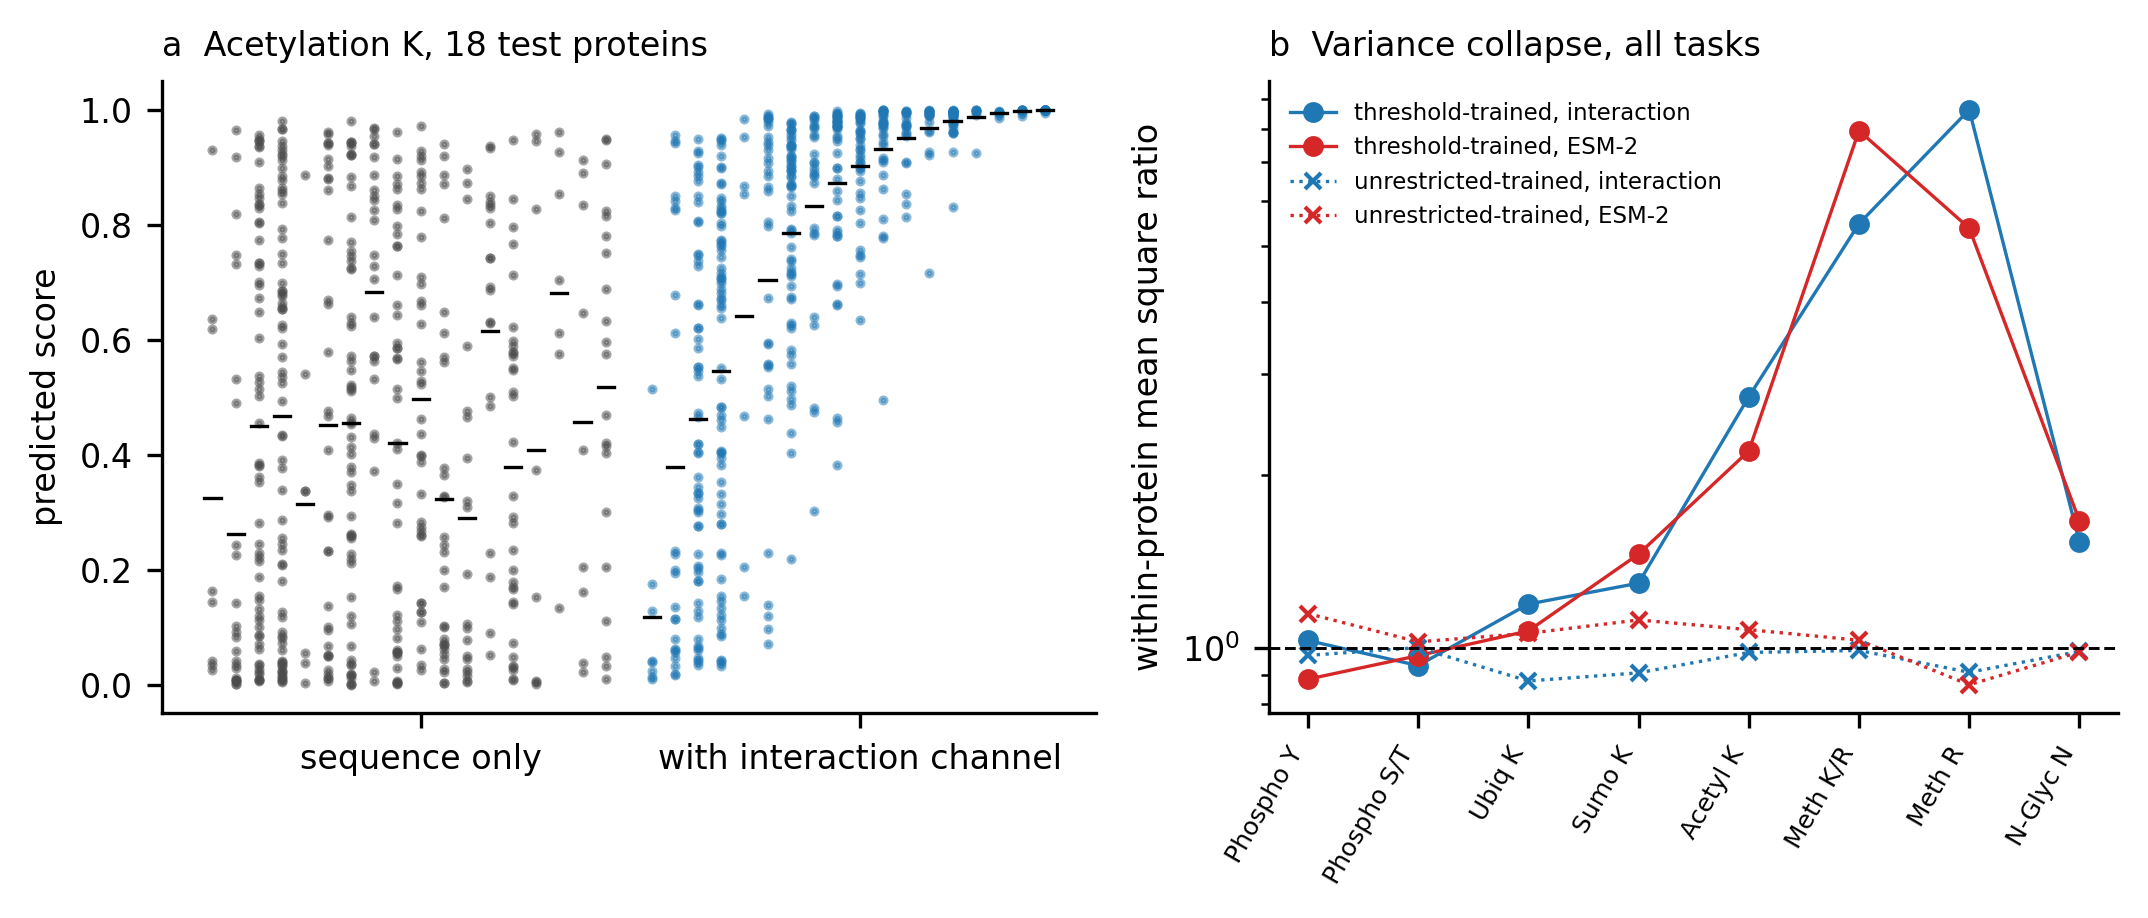
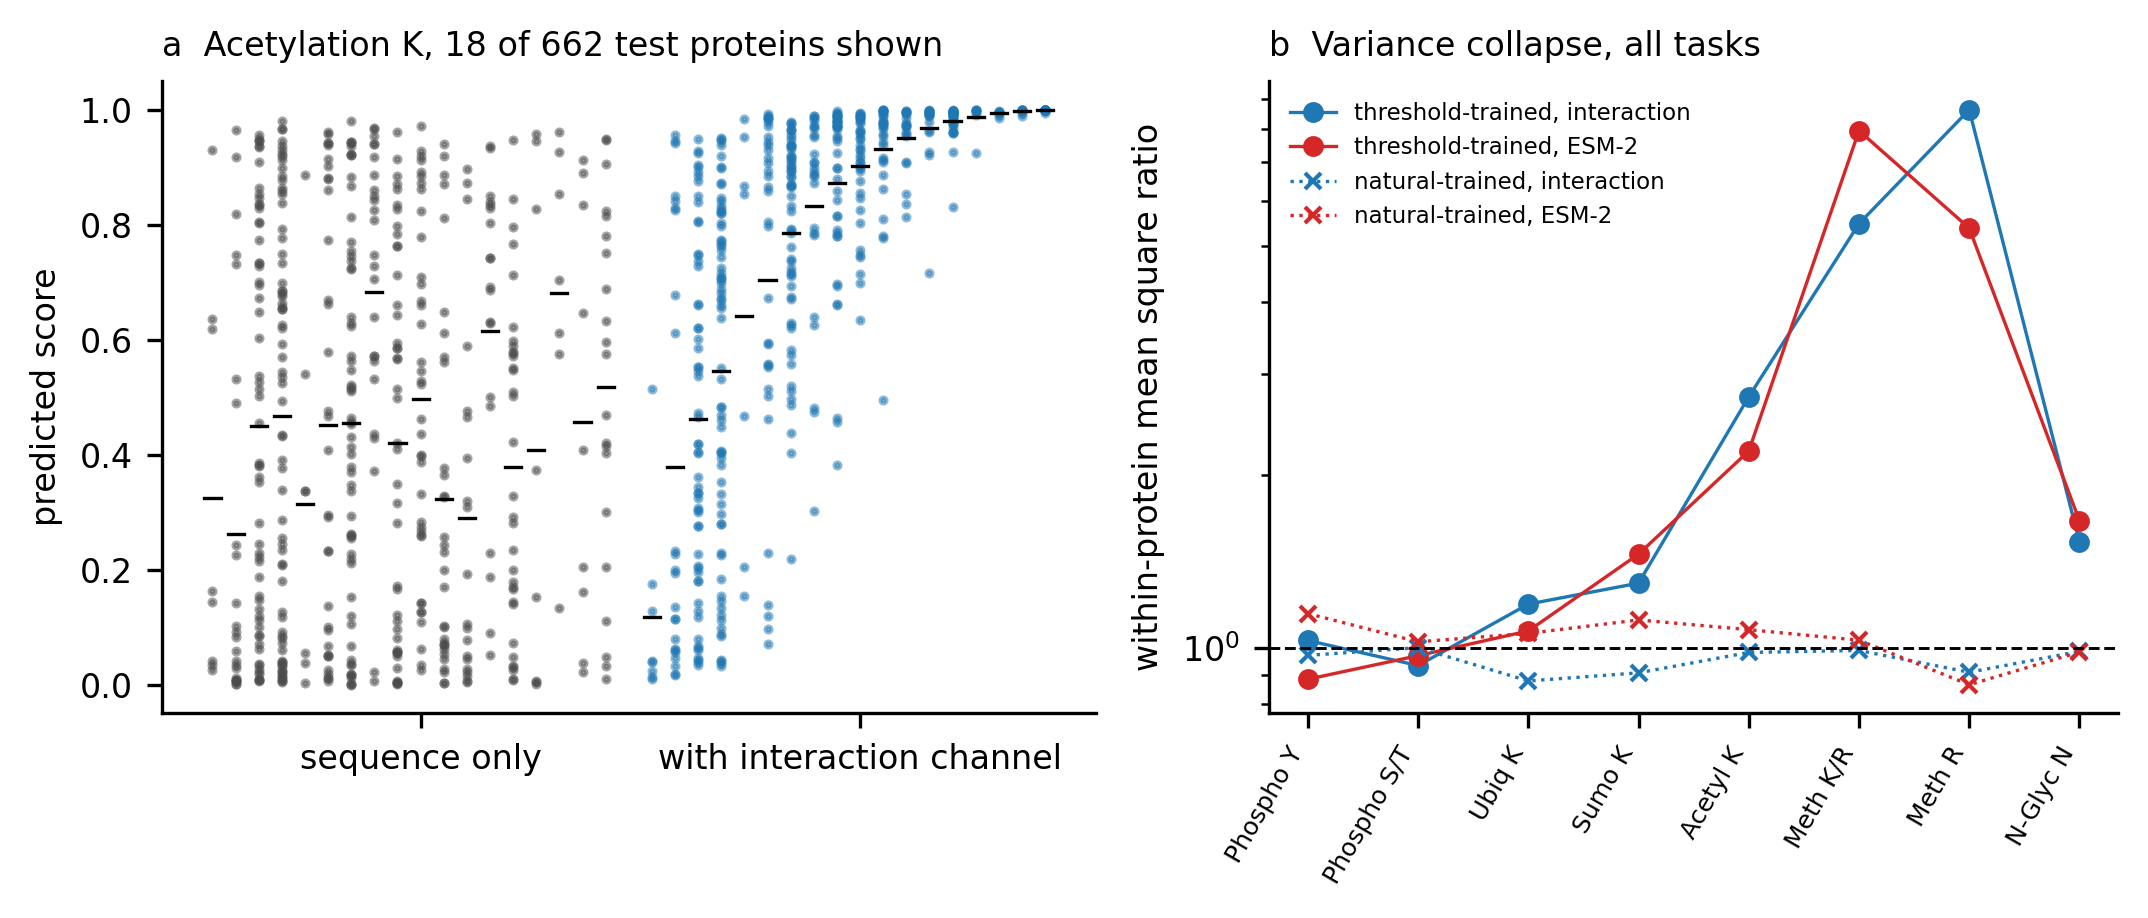
Align figure labels with the manuscript's vocabulary
The manuscript says "threshold negatives" and "natural negatives"
throughout. The plotting scripts still said "threshold-sampled",
"naturally sampled" and "unrestricted", so the figures and the text
used different names for the same two objects.

Eight label strings changed across two scripts. No data path, no
computation and no styling is touched. Figures 2, 3 and 4 regenerated
from the same run outputs.

Also corrects the Figure 4a title, which announced 18 proteins while
the text quotes statistics computed over 662. It now reads
"18 of 662 test proteins shown".

Changed region(s): [[0.6238, 0.183, 0.811, 0.244], [0.2183, 0.0305, 0.4367, 0.061]]

diff --git a/analysis/make_figures_v2.py b/analysis/make_figures_v2.py
@@ -189,9 +189,9 @@ def mechanism_chain_figure(out):
     ax[2].set_ylabel(r'$\rho$(score, neighbour pos. rate)', fontsize=7)
     ax[2].set_title('c  Neighbourhood labels', loc='left', fontsize=8)
     ax[2].legend(handles=[Line2D([], [], marker='o', ls='', color=C_PPI,
-                                 label='threshold-sampled labels'),
+                                 label='threshold labels'),
                           Line2D([], [], marker='o', ls='', color=C_SEQ,
-                                 label='unrestricted labels')],
+                                 label='natural labels')],
                  frameon=False, fontsize=5.5, loc='lower left',
                  bbox_to_anchor=(-0.02, -0.02))
     # (d) within-task depth gradient. Read from depth_stratified.py output
@@ -222,9 +222,9 @@ def mechanism_chain_figure(out):
     ax[3].set_ylabel(r'$\Delta$ mean score percentile')
     ax[3].set_title('d  Shallow proteins are pushed up', loc='left', fontsize=8)
     ax[3].legend(handles=[Line2D([], [], color='0.35', ls='-',
-                                 label='threshold-sampled training'),
+                                 label='threshold training'),
                           Line2D([], [], color='0.35', ls='--',
-                                 label='unrestricted training')],
+                                 label='natural training')],
                  frameon=False, fontsize=5.5, loc='lower left')
 
     fig.tight_layout(w_pad=1.8, h_pad=1.4)
@@ -238,7 +238,7 @@ def cross_eval_figure(feat, fname, out, title):
     fig, axes = plt.subplots(2, 2, figsize=(6.8, 5.0), sharey=True)
     cells = [('replica', 'replica'), ('replica', 'rebuilt'),
              ('rebuilt', 'replica'), ('rebuilt', 'rebuilt')]
-    names = {'replica': 'threshold-sampled', 'rebuilt': 'naturally sampled'}
+    names = {'replica': 'threshold negatives', 'rebuilt': 'natural negatives'}
     order = sorted(PTMS, key=lambda p: PP[p])
     for ax, (tr, te) in zip(axes.ravel(), cells):
         for i, p in enumerate(order):
@@ -296,7 +296,7 @@ def variance_figure(out):
     axa.set_xticks([9, 28])
     axa.set_xticklabels(['sequence only', 'with interaction channel'])
     axa.set_ylabel('predicted score')
-    axa.set_title('a  Acetylation K, 18 test proteins', loc='left', fontsize=8)
+    axa.set_title('a  Acetylation K, 18 of 662 test proteins shown', loc='left', fontsize=8)
 
     # (b) MSW ratio, all tasks
     axb = fig.add_subplot(gs[1])
@@ -320,7 +320,7 @@ def variance_figure(out):
             ys.append(np.mean(r))
         axb.plot(range(8), ys, marker=mk, ms=4, lw=.8, color=col,
                  ls=('-' if tr == 'replica' else ':'),
-                 label=f'{"threshold" if tr=="replica" else "unrestricted"}-trained, '
+                 label=f'{"threshold" if tr=="replica" else "natural"}-trained, '
                        f'{"interaction" if feat=="ppi" else "ESM-2"}')
     axb.axhline(1.0, color='k', lw=.7, ls='--')
     axb.set_yscale('log')

diff --git a/analysis/make_figure_merged.py b/analysis/make_figure_merged.py
@@ -70,7 +70,7 @@ def main(out):
     order = sorted(PTMS, key=lambda p: PP[p])
     cells = [('replica', 'replica'), ('replica', 'rebuilt'),
              ('rebuilt', 'replica'), ('rebuilt', 'rebuilt')]
-    names = {'replica': 'threshold-sampled', 'rebuilt': 'naturally sampled'}
+    names = {'replica': 'threshold negatives', 'rebuilt': 'natural negatives'}
 
     fig, axes = plt.subplots(2, 2, figsize=(7.0, 5.4), sharey=True, sharex=True)
     for ax, (tr, te) in zip(axes.ravel(), cells):
